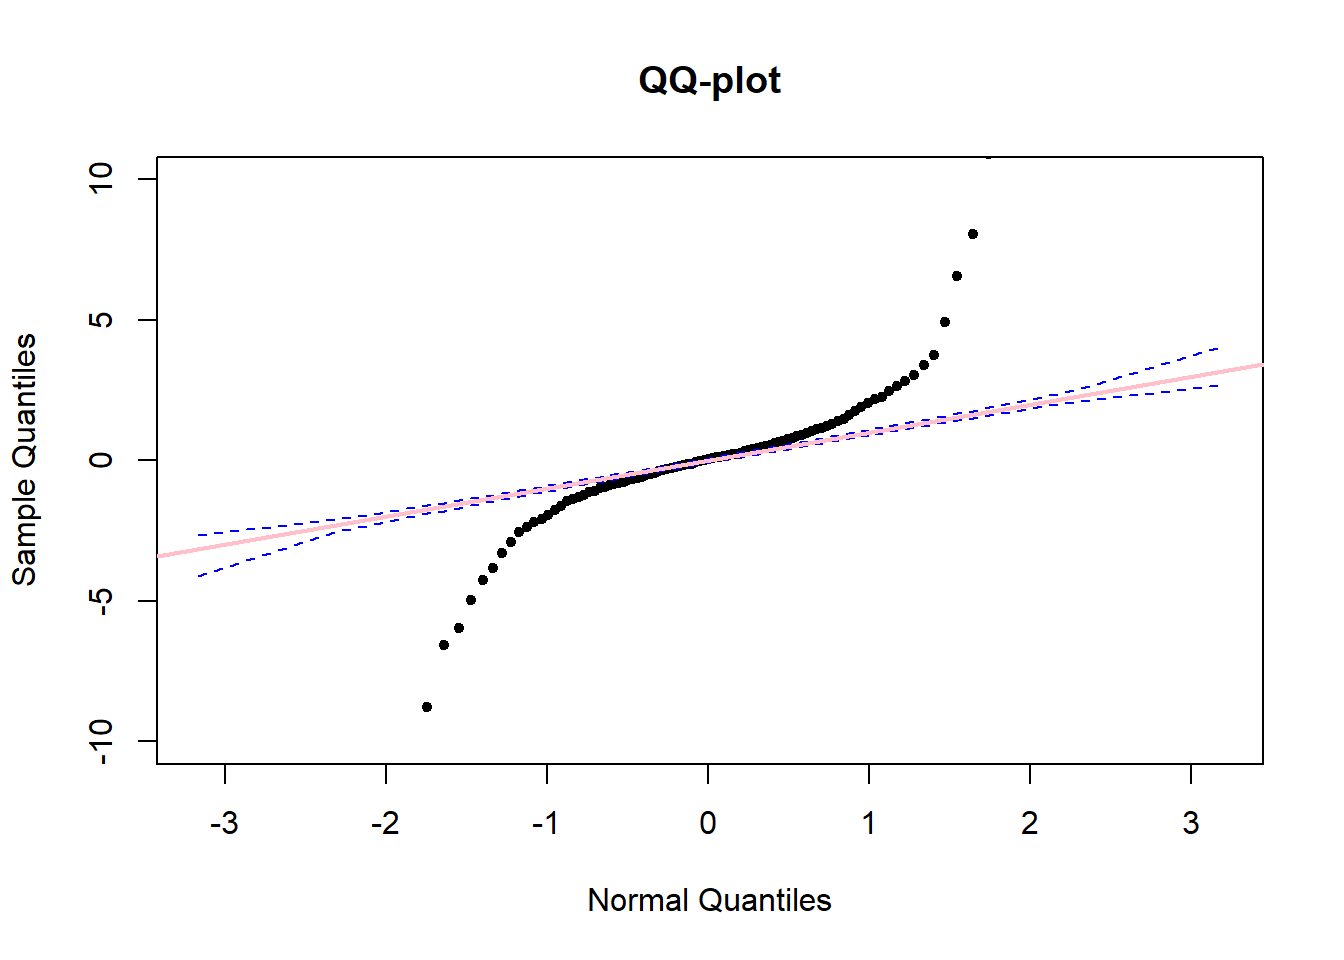
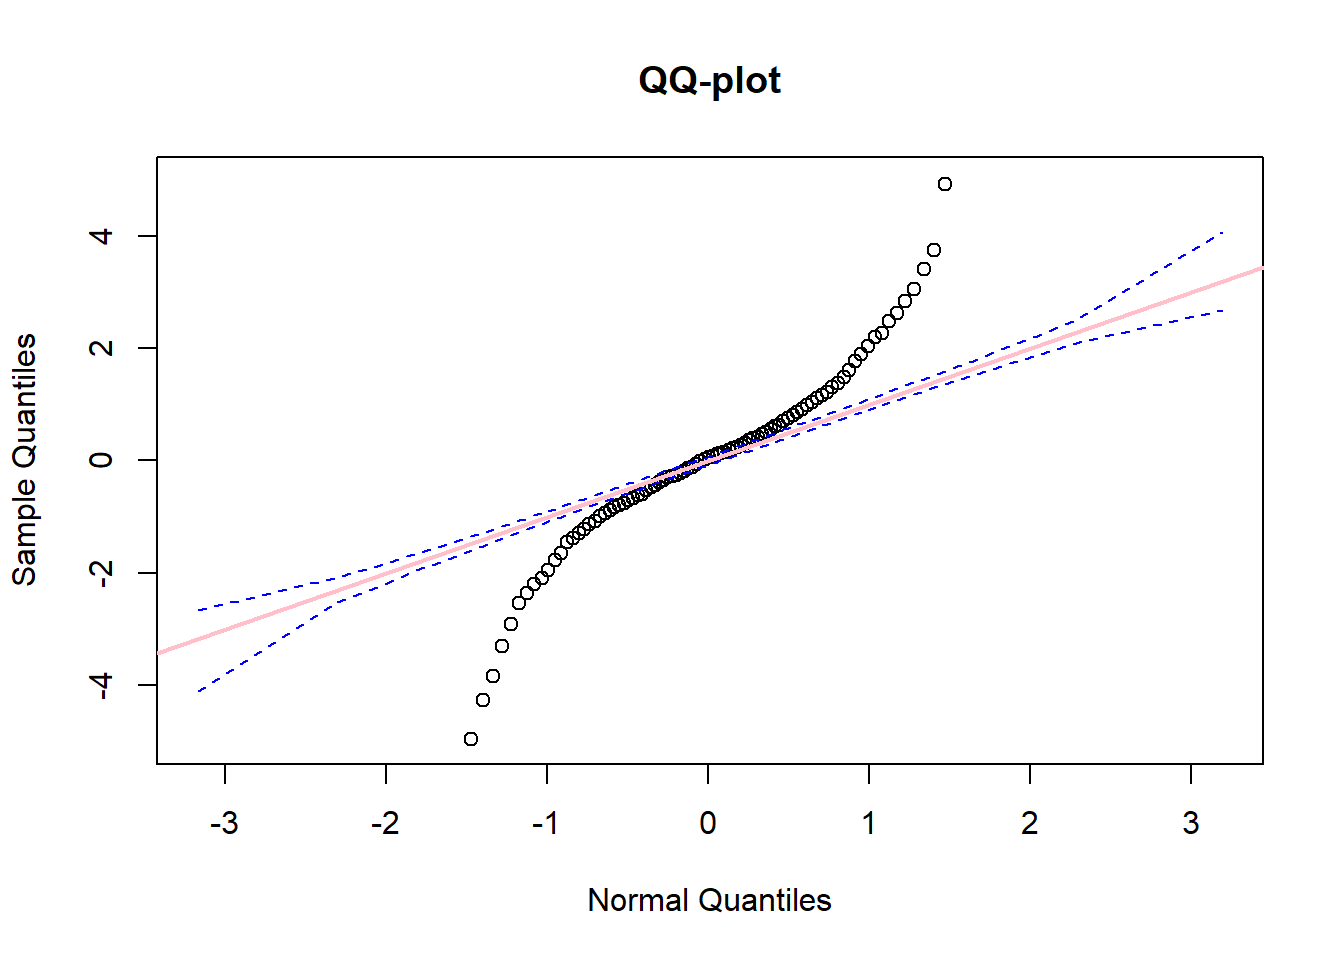
Updated Day3

diff --git a/Day3_Practicals/Day3-Practicals.html b/Day3_Practicals/Day3-Practicals.html
@@ -230,7 +230,7 @@ Coefficients:
 <span id="cb13-7"><a href="#cb13-7" aria-hidden="true" tabindex="-1"></a>tdist_quant <span class="ot">&lt;-</span> <span class="fu">quantile</span>(t_dist, <span class="at">probs =</span> prob_seq) </span>
 <span id="cb13-8"><a href="#cb13-8" aria-hidden="true" tabindex="-1"></a><span class="co">#norm_dist_quants &lt;- quantile(norm_dist, probs = prob_seq)</span></span>
 <span id="cb13-9"><a href="#cb13-9" aria-hidden="true" tabindex="-1"></a></span>
-<span id="cb13-10"><a href="#cb13-10" aria-hidden="true" tabindex="-1"></a><span class="co">#Use Bootstrapping to simulate 1000 norms</span></span>
+<span id="cb13-10"><a href="#cb13-10" aria-hidden="true" tabindex="-1"></a><span class="co">#Use Bootstrapping to simulate 1000 norms dist with 1000 values in each </span></span>
 <span id="cb13-11"><a href="#cb13-11" aria-hidden="true" tabindex="-1"></a>B <span class="ot">&lt;-</span> <span class="dv">1000</span></span>
 <span id="cb13-12"><a href="#cb13-12" aria-hidden="true" tabindex="-1"></a>norm_quants <span class="ot">&lt;-</span> <span class="fu">replicate</span>(B, {</span>
 <span id="cb13-13"><a href="#cb13-13" aria-hidden="true" tabindex="-1"></a>  norm_dist <span class="ot">&lt;-</span> <span class="fu">rnorm</span>(<span class="dv">1000</span>)</span>
@@ -238,15 +238,15 @@ Coefficients:
 <span id="cb13-15"><a href="#cb13-15" aria-hidden="true" tabindex="-1"></a>})</span>
 <span id="cb13-16"><a href="#cb13-16" aria-hidden="true" tabindex="-1"></a></span>
 <span id="cb13-17"><a href="#cb13-17" aria-hidden="true" tabindex="-1"></a></span>
-<span id="cb13-18"><a href="#cb13-18" aria-hidden="true" tabindex="-1"></a>upper <span class="ot">&lt;-</span> <span class="fu">apply</span>(norm_quants,<span class="dv">1</span>, quantile, <span class="at">probs =</span> <span class="fl">0.025</span>)</span>
+<span id="cb13-18"><a href="#cb13-18" aria-hidden="true" tabindex="-1"></a>upper <span class="ot">&lt;-</span> <span class="fu">apply</span>(norm_quants,<span class="dv">1</span>, quantile, <span class="at">probs =</span> <span class="fl">0.025</span>) <span class="co">#apply to quantile over all the rows and return the 2.5th percentile</span></span>
 <span id="cb13-19"><a href="#cb13-19" aria-hidden="true" tabindex="-1"></a>lower <span class="ot">&lt;-</span> <span class="fu">apply</span>(norm_quants,<span class="dv">1</span>, quantile, <span class="at">probs =</span> <span class="fl">0.975</span>)</span>
-<span id="cb13-20"><a href="#cb13-20" aria-hidden="true" tabindex="-1"></a>norm_med <span class="ot">&lt;-</span> <span class="fu">apply</span>(norm_quants,<span class="dv">1</span>,quantile, <span class="at">probs =</span> <span class="fl">0.50</span>)</span>
+<span id="cb13-20"><a href="#cb13-20" aria-hidden="true" tabindex="-1"></a>norm_med <span class="ot">&lt;-</span> <span class="fu">apply</span>(norm_quants,<span class="dv">1</span>,quantile, <span class="at">probs =</span> <span class="fl">0.50</span>) <span class="co">#get the med aswell</span></span>
 <span id="cb13-21"><a href="#cb13-21" aria-hidden="true" tabindex="-1"></a></span>
 <span id="cb13-22"><a href="#cb13-22" aria-hidden="true" tabindex="-1"></a><span class="co">#Calculate quantiles for normal distribution, plot against tdistribution</span></span>
 <span id="cb13-23"><a href="#cb13-23" aria-hidden="true" tabindex="-1"></a><span class="co">#How to find quantiles </span></span>
 <span id="cb13-24"><a href="#cb13-24" aria-hidden="true" tabindex="-1"></a><span class="fu">plot</span>(norm_med, tdist_quant, <span class="at">main =</span> <span class="st">"QQ-plot"</span>,</span>
 <span id="cb13-25"><a href="#cb13-25" aria-hidden="true" tabindex="-1"></a>     <span class="at">xlab =</span> <span class="st">"Normal Quantiles"</span>, <span class="at">ylab =</span> <span class="st">"Sample Quantiles"</span>,</span>
-<span id="cb13-26"><a href="#cb13-26" aria-hidden="true" tabindex="-1"></a>     <span class="at">ylim =</span> <span class="fu">c</span>(<span class="sc">-</span><span class="dv">10</span>, <span class="dv">10</span>), <span class="at">pch =</span> <span class="dv">20</span>)</span>
+<span id="cb13-26"><a href="#cb13-26" aria-hidden="true" tabindex="-1"></a>     <span class="at">ylim =</span> <span class="fu">c</span>(<span class="sc">-</span><span class="dv">5</span>, <span class="dv">5</span>), <span class="at">pch =</span> <span class="dv">1</span>)</span>
 <span id="cb13-27"><a href="#cb13-27" aria-hidden="true" tabindex="-1"></a></span>
 <span id="cb13-28"><a href="#cb13-28" aria-hidden="true" tabindex="-1"></a><span class="fu">lines</span>(norm_med, lower, <span class="at">col =</span> <span class="st">"blue"</span>, <span class="at">lty =</span> <span class="dv">2</span>)</span>
 <span id="cb13-29"><a href="#cb13-29" aria-hidden="true" tabindex="-1"></a><span class="fu">lines</span>(norm_med, upper, <span class="at">col =</span> <span class="st">"blue"</span>, <span class="at">lty =</span> <span class="dv">2</span>)</span>
